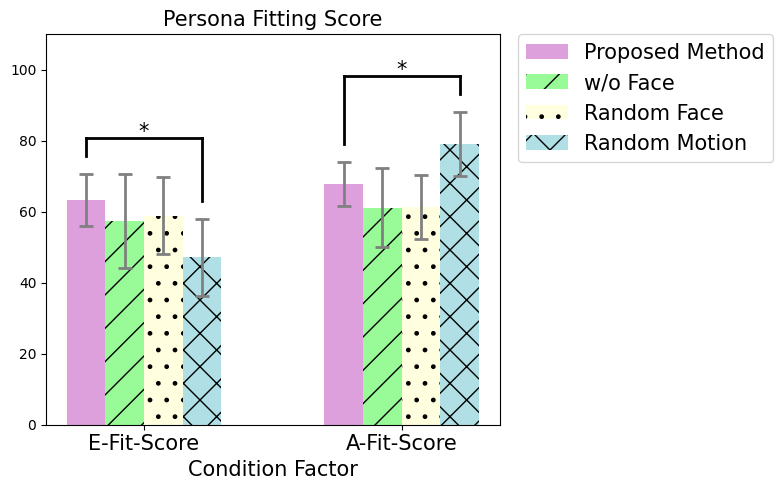
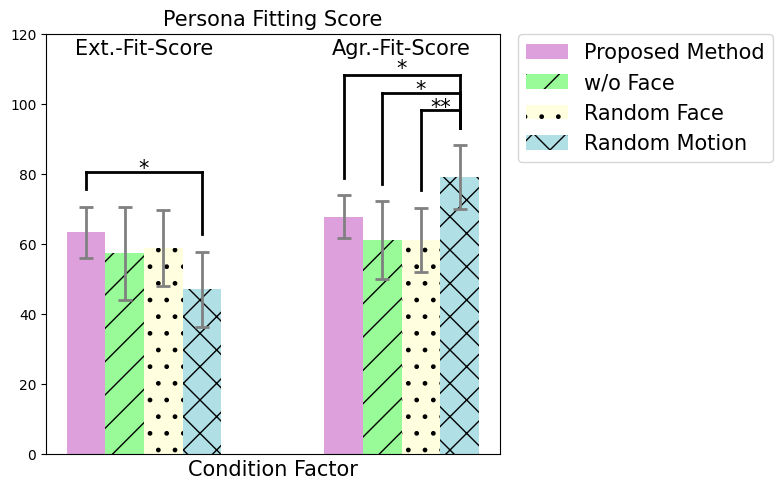
results added

diff --git a/detailed.html b/detailed.html
@@ -131,6 +131,11 @@
                   <th>72</th>
               </xsl:for-each>
               </table>
+              <b>Notations</b><br>
+              E-Score denotes extroversion measured by users from survey question 1, A-Score denotes agreeableness answerd from survey question 2. <br>
+              Agr., Dis., Ext., and Int. denote agreeable, disagreeable, extroverted, and introverted persona, respectively. <br>
+              * denotes 0.01 < p < 0.05, ** denotes p < 0.01, and *** denotes p < 0.001. The error bars represent 95% confidence intervals.
+              The significance level was 0.05 <br>
             </div>
             </div>
     </div>
@@ -140,24 +145,13 @@
 <section class="hero is-small">
   <div class="hero-body">
       <div class="container">
-      <h2 class="title is-4"><br>Phase 1 - Personality Identification</h2>
-      <div class="column is-four-fifths">
-      <div class="subtitle has-text-justified">
-        <img src="assets/res_1.png" alt="MY ALT TEXT" style="width: 60%"><br>
-    </div>
-    </div>
-  </div>
-  </div>
-</section> 
-
-
-<section class="hero is-small">
-  <div class="hero-body">
-      <div class="container">
-      <h2 class="title is-4"><br>Phase 1 - Satisfaction</h2>
+      <h2 class="title is-4"><br>Phase 1 - Satisfaction among Personality Personas</h2>
       <div class="column is-four-fifths">
       <div class="subtitle has-text-justified">
         <img src="assets/res_3.png" alt="MY ALT TEXT" style="width: 60%"><br>
+      Satisfaction obtained from survey phase 1 question 3.  <br>
+      Analyze Method: two-way ANOVA, fixed factors are extroversion persona and agreeable persona and the dependent variable is satisfaction score. <br>
+      Results: Significant differences between agreeable and disagreeable personas (F(1,48) = 4.799, p = 0.033, partial η2 = 0.091). No significiant difference between extroversion persona factor.  <br>
       </div>
       </div>
     </div>
@@ -167,10 +161,29 @@
   <section class="hero is-small">
     <div class="hero-body">
         <div class="container">
-        <h2 class="title is-4"><br>Phase 2 - Keywords for Each characters</h2>
+        <h2 class="title is-4"><br>Phase 2 - Mentioned Keywords among Character Personas</h2>
         <div class="column is-four-fifths">
         <div class="subtitle has-text-justified">
-          <img src="assets/res_5.png" alt="MY ALT TEXT" style="width: 40%"><br>
+          <img src="assets/res_6.png" alt="MY ALT TEXT" style="width: 40%"><br>
+          Keywords obtained from survey phase 2 question 4.
+      </div>
+      </div>
+    </div>
+    </div>
+  </section> 
+
+  <section class="hero is-small">
+    <div class="hero-body">
+        <div class="container">
+        <h2 class="title is-4"><br>Phase 2 - Satisfaction among Character Personas</h2>
+        <div class="column is-four-fifths">
+        <div class="subtitle has-text-justified">
+          <img src="assets/res_5.png" alt="MY ALT TEXT" style="width: 60%"><br>
+          Satisfaction obtained from survey phase 2 question 7.  <br>
+          Analyze Method: one-way ANOVA, fixed factor is persona and the dependent variable is satisfaction score. <br>
+          Results: Significant differences between personas (F(3,104) = 7.300, p < 0.001, partial η2 = 0.174). <br>
+          With a post-hoc test, we observed that there was a significant satisfaction difference between Minion persona and the rest of characters.
+          Minions - Cowardly lion had p < 0.001, Minions - Scrooge had p = 0.003, and Minions - Coward lion had p < 0.001,.  <br>
       </div>
       </div>
     </div>
@@ -254,10 +267,16 @@ The difference in facial expressions is not pronounced, making it difficult to d
 <section class="hero is-small">
   <div class="hero-body">
       <div class="container">
-      <h2 class="title is-4"><br>Pre-studies - Impact of Facial Expression</h2>
+      <h2 class="title is-4"><br>Pre-studies - Impact of Facial Expression (Personality Persona)</h2>
       <div class="column is-four-fifths">
       <div class="subtitle has-text-justified">
         <img src="assets/res_2.png" alt="MY ALT TEXT" style="width: 60%"><br>
+        Analyze Method: We employed a 2-way MANOVA, focusing on three key factors: the extroversion and agreeableness of the robot's persona, and the presence or absence of facial expressions. <br>
+        Results: The analysis revealed that the interaction effect between the facial expression condition and the extroversion persona, 
+        in terms of extroversion scores, was not statistically significant (F(1,60) = 0.855, p = 0.329, partial η2 = 0.014 with a significance level 0.05). 
+        Similarly, the interaction effect between the facial expression condition and the agreeable persona, in terms of agreeableness scores, also failed to reach statistical significance 
+        (F(1,60) = 1.237, p = 0.270, partial η2 = 0.02). 
+        Consequently, our study did not find a significant difference attributable to the presence or absence of facial expressions in persona identification. <br>
       </div>
     </div>
   </div>
@@ -268,10 +287,24 @@ The difference in facial expressions is not pronounced, making it difficult to d
 <section class="hero is-small">
   <div class="hero-body">
       <div class="container">
-      <h2 class="title is-4"><br>Ablation-studies - Effect of Motions and Facial Expressions</h2>
+      <h2 class="title is-4"><br>Ablation-studies - Effect of Motions and Facial Expressions (Personality Persona)</h2>
       <div class="column is-four-fifths">
       <div class="subtitle has-text-justified">
         <img src="assets/res_4.png" alt="MY ALT TEXT" style="width: 60%"><br>
+        Scoring Method: <br>
+        - Exroversion Fitting Score (Ext.-Fitting-Score): E-score if persona is extroverted
+        & Otherwise 100- E-score
+        <br>
+        - Agreeableness Fitting Score (Agr.-Fitting-Score): A-score if persona is agreeable
+        & Otherwise 100- A-score <br>
+        Comparing Method: No facial expression (Screen off), randomized facial expression, randomized motion<br>
+        Analyze Method: two-way ANOVA, fixed factor is the ablation condition and the dependent variables are both scores. <br>
+        Results: Significant differences between Agr.-Fitting-Score (F(3,112) = 3.129, p=0.029, partial η2 = 0.052). 
+        Fot post-hoc test, there was a significant difference in Ext.-Fitting-Score of prposed method and randomized motion (p=0.015). 
+        In addition, Agr.-Fitting-Score had a significant difference between the same two factor (p=0.046), randomized motion-randimized face (p=0.007), and randomized motion-no face (p=0.015). 
+        However, this shows that agreeableness indentification was better when the motion was randomized.
+        As this ablation studies lacks the statisfical power, the results should be interpreted in caution. 
+        We have observed that the motion effects significantly in extroversion factor, while the facial expression may be more dominant in understanding the agreeableness of the proposed method.<br>
       </div>
     </div>
   </div>

diff --git a/protocols.html b/protocols.html
@@ -254,6 +254,13 @@
             </div>
             <br>
             <div class="slidecontainer">
+                <p> <b>S7: What is your overall satisfaction of the interaction. </b> </p>
+                <input type="range" min="1" max="100" value="50" class="slider" id="myRange">
+                <div class="c" style="float:left; font-size:14px;">Not so</div>
+                <div class="c" style="float:right; font-size:14px;">Very much so</div>
+            </div>
+            <br> <br>
+            <div class="slidecontainer">
                 <p> <b>Please feel free to write down the reasons for your above answers. </b> </p>
                 <input type="text" id="keywords" name="keywords" style="height: 100px; width: 1000px;">
             </div>
